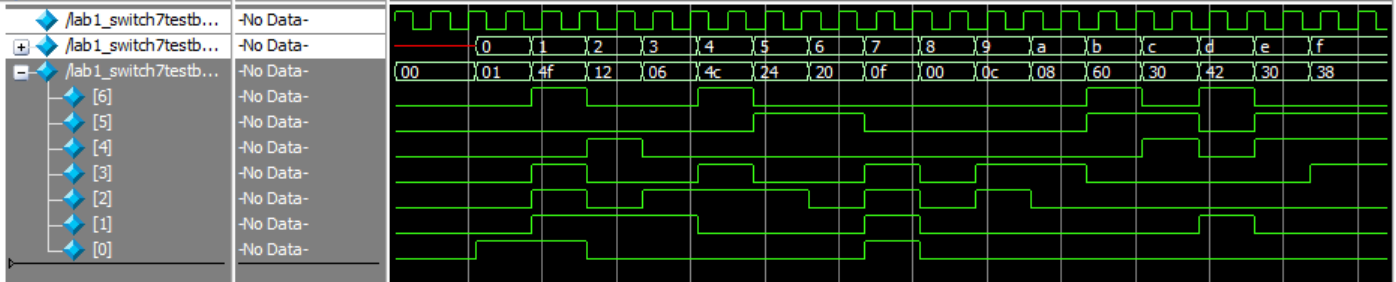
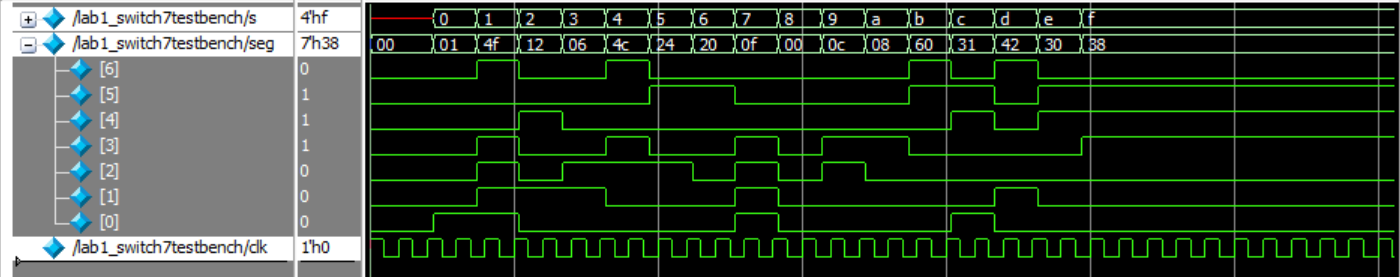
Built site for gh-pages

diff --git a/labs/lab 1/lab1.html b/labs/lab 1/lab1.html
@@ -290,9 +290,28 @@ ul.task-list li input[type="checkbox"] {
 </section>
 <section id="hardware-results" class="level2">
 <h2 class="anchored" data-anchor-id="hardware-results">Hardware Results</h2>
+<p>To test on hardware, a switch was used for reset. As such, the code was modified to account for reset being low when pressed and otherwise high. This change was verified by modifying the testbench and it ran successfully.</p>
+<p>When uploaded to the board, the code ran successfully. A full sweep of the switch inputs showed both LEDs 0 and 1 as well as the 7-segment LED display had expected behavior. Additionally, LED 2 blinked 24 times over a 10 second period (shout out Enzo for helping me count), showing that it was blinking at a speed of 2.4Hz. The hardware setup for the board is shown below.</p>
+<div class="callout callout-style-default callout-important callout-titled" title="hardware setup of board connected to 7-segment LED display">
+<div class="callout-header d-flex align-content-center" data-bs-toggle="collapse" data-bs-target=".callout-7-contents" aria-controls="callout-7" aria-expanded="true" aria-label="Toggle callout">
+<div class="callout-icon-container">
+<i class="callout-icon"></i>
+</div>
+<div class="callout-title-container flex-fill">
+<span class="screen-reader-only">Important</span>hardware setup of board connected to 7-segment LED display
+</div>
+<div class="callout-btn-toggle d-inline-block border-0 py-1 ps-1 pe-0 float-end"><i class="callout-toggle"></i></div>
+</div>
+<div id="callout-7" class="callout-7-contents callout-collapse collapse show">
+<div class="callout-body-container callout-body">
+<p><img src="images/board.jpg" class="img-fluid"> <img src="images/7segdisplay.jpg" class="img-fluid"></p>
+</div>
+</div>
+</div>
 </section>
 <section id="conclusion" class="level2">
 <h2 class="anchored" data-anchor-id="conclusion">Conclusion</h2>
+<p>In this lab I built and programed a board to control a 7-segment LED display and 2 LEDs with switches, as well as to blink an LED at a prespecified rate using the onboard high-speed oscillator. This required using both combinational and sequential logic. Additionally, I coded 3 different test benches to verify my code. This lab took me about 18 hours but only about 10 of those hours were spent coding.</p>
 </section>
 <section id="ai-prototype-summary" class="level2">
 <h2 class="anchored" data-anchor-id="ai-prototype-summary">AI Prototype Summary</h2>
